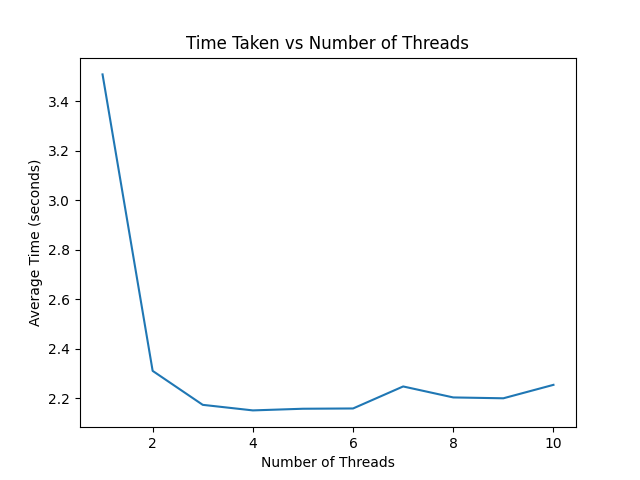
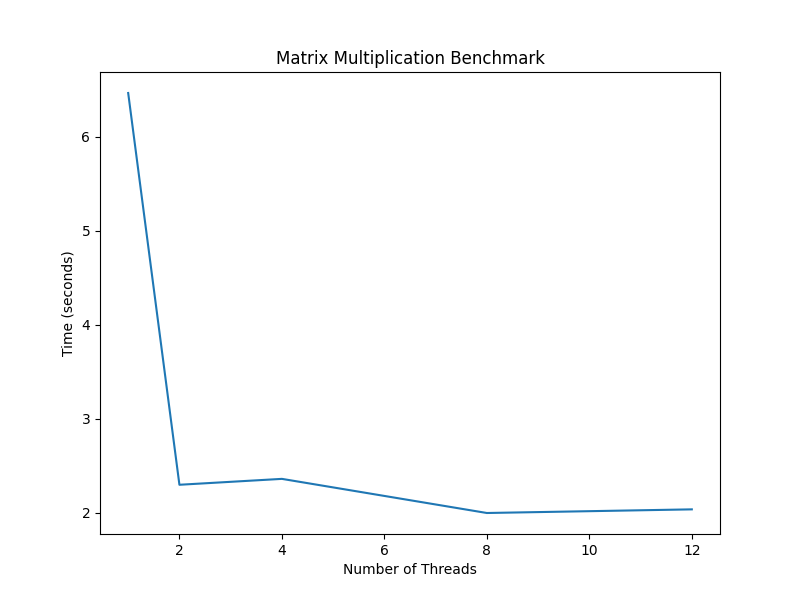
Add files via upload

diff --git a/matrix_multiplication.py b/matrix_multiplication.py
@@ -1,0 +1,84 @@
+import threading
+import time
+import numpy as np
+import matplotlib.pyplot as plt
+import pandas as pd
+
+num_matrices = 100
+matrix_size = 1000
+num_threads = [1, 2, 4, 8, 12]
+
+
+def matrix_multiply(A, B):
+    return np.matmul(A, B)
+
+
+def generate_random_matrix(rows, cols):
+    return np.random.rand(rows, cols)
+
+
+constant_matrix = generate_random_matrix(matrix_size, matrix_size)
+
+
+# Function to execute matrix multiplication in a thread
+def worker(matrices, constant_matrix, results, start_index, end_index):
+    for i in range(start_index, end_index):
+        results[i] = matrix_multiply(matrices[i], constant_matrix)
+
+
+# precompute kardiya so that benchmark ke liye sahi ho
+matrices = [
+    generate_random_matrix(matrix_size, matrix_size) for _ in range(num_matrices)
+]
+
+times = []
+for num_thread in num_threads:
+    start_time = time.time()
+
+    # Create threads
+    results = [None] * num_matrices
+    threads = []
+    chunk_size = num_matrices // num_thread
+
+    for i in range(num_thread):
+        start_index = i * chunk_size
+        end_index = start_index + chunk_size
+        if i == num_thread - 1:
+            end_index = num_matrices
+        thread = threading.Thread(
+            target=worker,
+            args=(matrices, constant_matrix, results, start_index, end_index),
+        )
+        threads.append(thread)
+        thread.start()
+
+    # Wait for threads to finish
+    for thread in threads:
+        thread.join()
+
+    end_time = time.time()
+    times.append(end_time - start_time)
+
+# Plot results
+plt.figure(figsize=(8, 6))
+plt.plot(num_threads, times)
+plt.xlabel("Number of Threads")
+plt.ylabel("Time (seconds)")
+plt.title("Matrix Multiplication Benchmark")
+plt.show()
+
+
+# Create a DataFrame to store the results
+results_df = pd.DataFrame({
+    'Number of Threads': num_threads,
+    'Time Taken (seconds)': times
+})
+
+# Print DataFrame
+print("Results DataFrame:")
+print(results_df)
+
+# Save DataFrame to CSV file
+results_df.to_csv('time_vs_threads.csv', index=False)
+
+print("\nResults saved to 'time_vs_threads.csv'")
